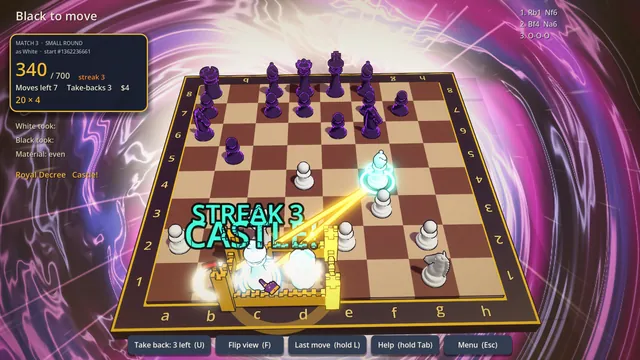
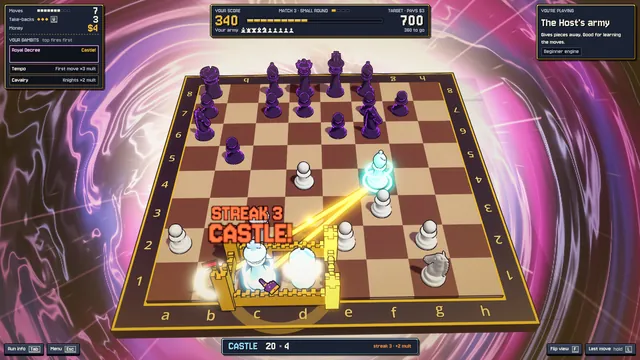
Dead Position press kit: the codev's updated screenshots, cover and key art
The twelve screenshots are the new renders with the reworked HUD, from
the UpdatedDist store media (screenshots/jpg). The key art with title
is the new Steam main capsule and the cover is the new itch cover, so the
home page card (which uses the cover thumb) updates too. Alt text for
shots 01 and 10 now matches what they show. The logo and icon in the new
set are identical to the ones already here, so they're unchanged.

Claude-Session: https://claude.ai/code/session_01Y9L8ZuzvGFVUNuy41bT8zP

diff --git a/press/dead-position/index.html b/press/dead-position/index.html
@@ -143,7 +143,7 @@
           <ul class="media-grid">
             <li>
               <a href="/press/img/dead-position/dead-position-01.jpg" download>
-                <img src="/press/img/dead-position/dead-position-01-thumb.webp" width="640" height="360" loading="lazy" alt="A queen taken for 1,380: the line of play, the count and the Host's wail">
+                <img src="/press/img/dead-position/dead-position-01-thumb.webp" width="640" height="360" loading="lazy" alt="A pin on a streak of three: the line of play, the count and the Host's wail">
               </a>
               <p><span class="media-meta">1920&times;1080 JPG</span> <a href="/press/img/dead-position/dead-position-01.jpg" download>Download</a></p>
             </li>
@@ -197,7 +197,7 @@
             </li>
             <li>
               <a href="/press/img/dead-position/dead-position-10.jpg" download>
-                <img src="/press/img/dead-position/dead-position-10-thumb.webp" width="640" height="360" loading="lazy" alt="A piece picked up: its moves, a Gambit's purple one and the strip of Gambits">
+                <img src="/press/img/dead-position/dead-position-10-thumb.webp" width="640" height="360" loading="lazy" alt="A piece picked up: its moves, a capture worth 200 and the Gambits that fire on it">
               </a>
               <p><span class="media-meta">1920&times;1080 JPG</span> <a href="/press/img/dead-position/dead-position-10.jpg" download>Download</a></p>
             </li>
